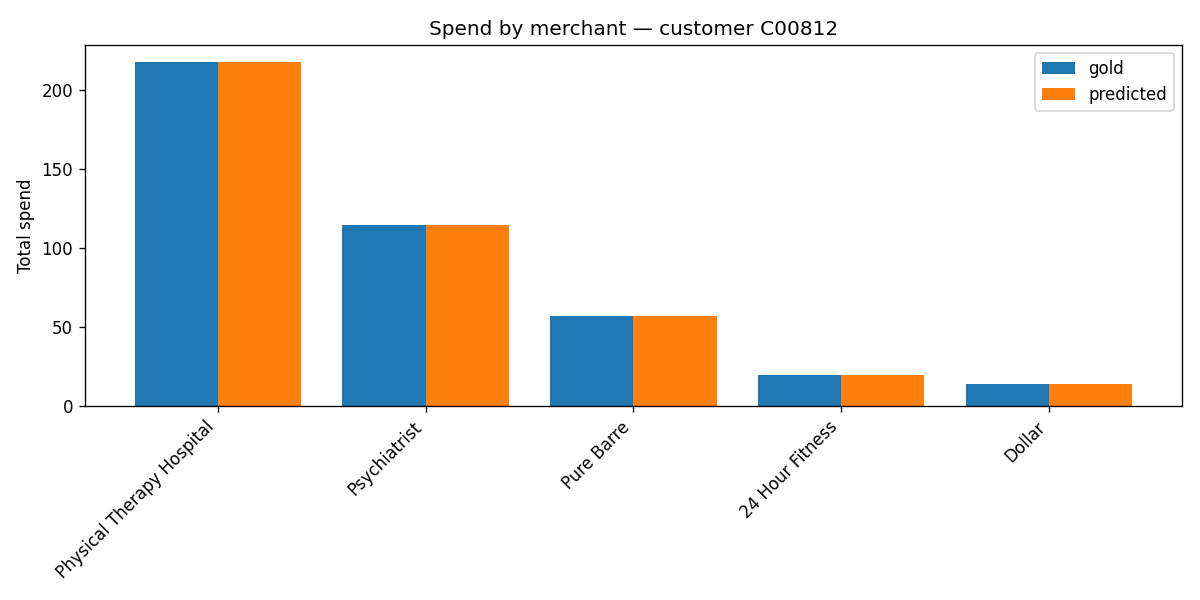
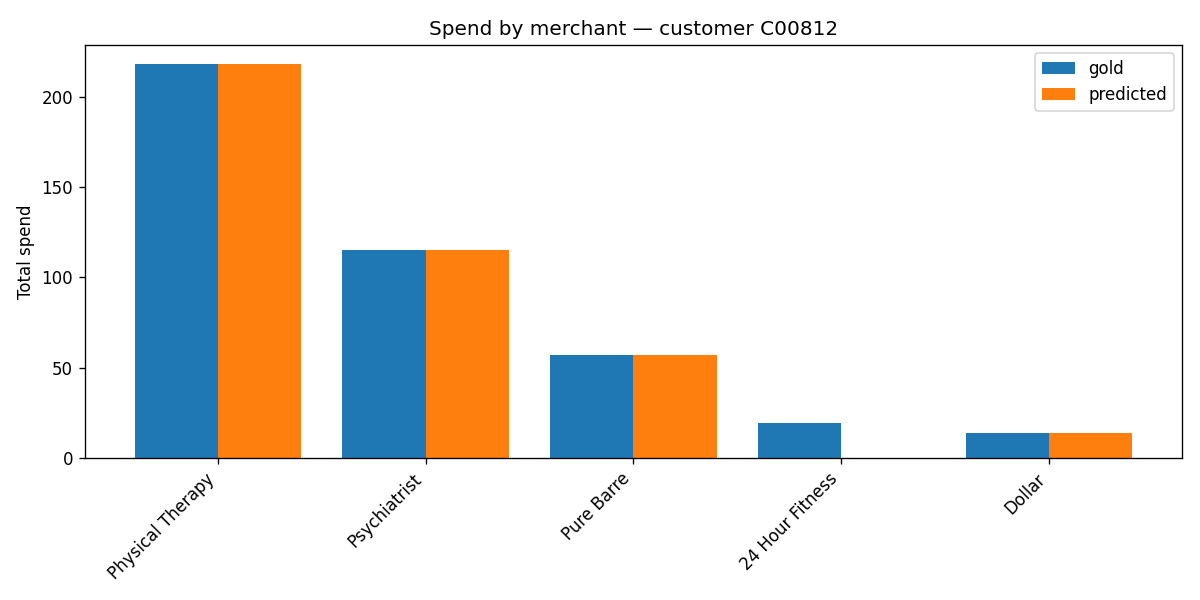
docs(reports): regenerate hard leaderboards and add Jev leaderboard
Rerun on the regenerated hard feed after the AMZN MKTP and silver-label
suffix fixes (1000 eval rows per split, same rows for every route):
- leaderboard_hard.md: rules, embedding, slm_fewshot.
- leaderboard_hard_jev.md (+ .json): adds jev_merchant and jev_slm.
- reports/real: DDT category summary and MoneyData merchant summary
  (alias-aware, high+medium confidence labels).

Numbers are not comparable to earlier versions of these files; the preambles
explain why. README results section is not updated yet.

diff --git a/reports/leaderboard_hard_jev.md b/reports/leaderboard_hard_jev.md
@@ -1,4 +1,4 @@
-# Route Leaderboard — HARD mode (dirty card-network descriptors)
+# Route Leaderboard — HARD mode, with TypeSafe Jev routes
 
 Feed synthesized with `synth --hard`: aggregator prefixes (`SQ */PAYPAL */PP*/TST*`),
 uppercasing, embedded city/state/store-id, truncation, space collapsing. 1000 eval rows
@@ -18,15 +18,31 @@ to earlier versions of this file:
 reproducing the silver label, not generalization. SLM rows vary by about +/-1 point
 between runs (Ollama on GPU is not bit-deterministic at temperature 0).
 
-Embedding wins on known merchants (random split); on the brand-disjoint unseen split only
-the SLM can name a merchant it never saw (0.90), because it reads the string instead of
-matching a list. See `leaderboard_hard_jev.md` for the same table with the Jev routes.
+- `jev_merchant`: category from a Jev Choice question over the 10 categories; merchant from
+  a Jev Choice over the fuzzy top-20 known merchants plus `none_of_these` (none falls back
+  to `derive_canonical`).
+- `jev_slm`: same, but `none_of_these` escalates the merchant to `slm_fewshot`
+  (escalated 2.9% of rows on random, 83.8% on unseen).
+
+Jev is the best category route on unseen merchants (0.88 vs SLM 0.67, embedding 0.55) and
+the best merchant route on known merchants (0.97 vs embedding 0.92). As a gate for new
+merchants it leaks on this feed: ~16% of unseen rows were accepted as a known "merchant",
+mostly generic list entries (`Citibank` -> `Bank`, `Salary` -> `Direct Deposit`), so
+`jev_slm` (0.75) trails the SLM alone (0.90) on unseen. On real statements (MoneyData,
+brand-only list) Jev said none for 97% of held-out merchants; see
+`reports/real/moneydata_summary_high-medium_aliased.json`.
+
+The spend plot `spend_C00812.png` is from the best random-split route (`jev_slm`).
 
 | route | split | Category Acc | Macro F1 | Merchant Acc | Merchant Norm | Dedup Ratio | Spend KPI | ms/txn |
 | --- | --- | --- | --- | --- | --- | --- | --- | --- |
 | rules | random | 0.80 | 0.79 | 0.76 | 0.77 | 0.56 | 0.76 | 0.08 |
 | embedding | random | 0.92 | 0.92 | 0.92 | 0.92 | 0.41 | 0.92 | 6.51 |
 | slm_fewshot | random | 0.73 | 0.75 | 0.62 | 0.89 | 0.56 | 0.62 | 405.58 |
+| jev_merchant | random | 0.88 | 0.88 | 0.96 | 0.96 | 0.43 | 0.96 | 335.44 |
+| jev_slm | random | 0.88 | 0.88 | 0.97 | 0.97 | 0.43 | 0.97 | 342.41 |
 | rules | unseen | 0.41 | 0.45 | 0.07 | 0.24 | 0.84 | 0.07 | 0.10 |
 | embedding | unseen | 0.55 | 0.54 | 0.00 | 0.00 | 0.19 | 0.00 | 6.34 |
 | slm_fewshot | unseen | 0.67 | 0.68 | 0.60 | 0.90 | 0.26 | 0.60 | 409.95 |
+| jev_merchant | unseen | 0.88 | 0.88 | 0.07 | 0.24 | 0.77 | 0.07 | 334.71 |
+| jev_slm | unseen | 0.87 | 0.87 | 0.49 | 0.75 | 0.27 | 0.49 | 725.06 |
